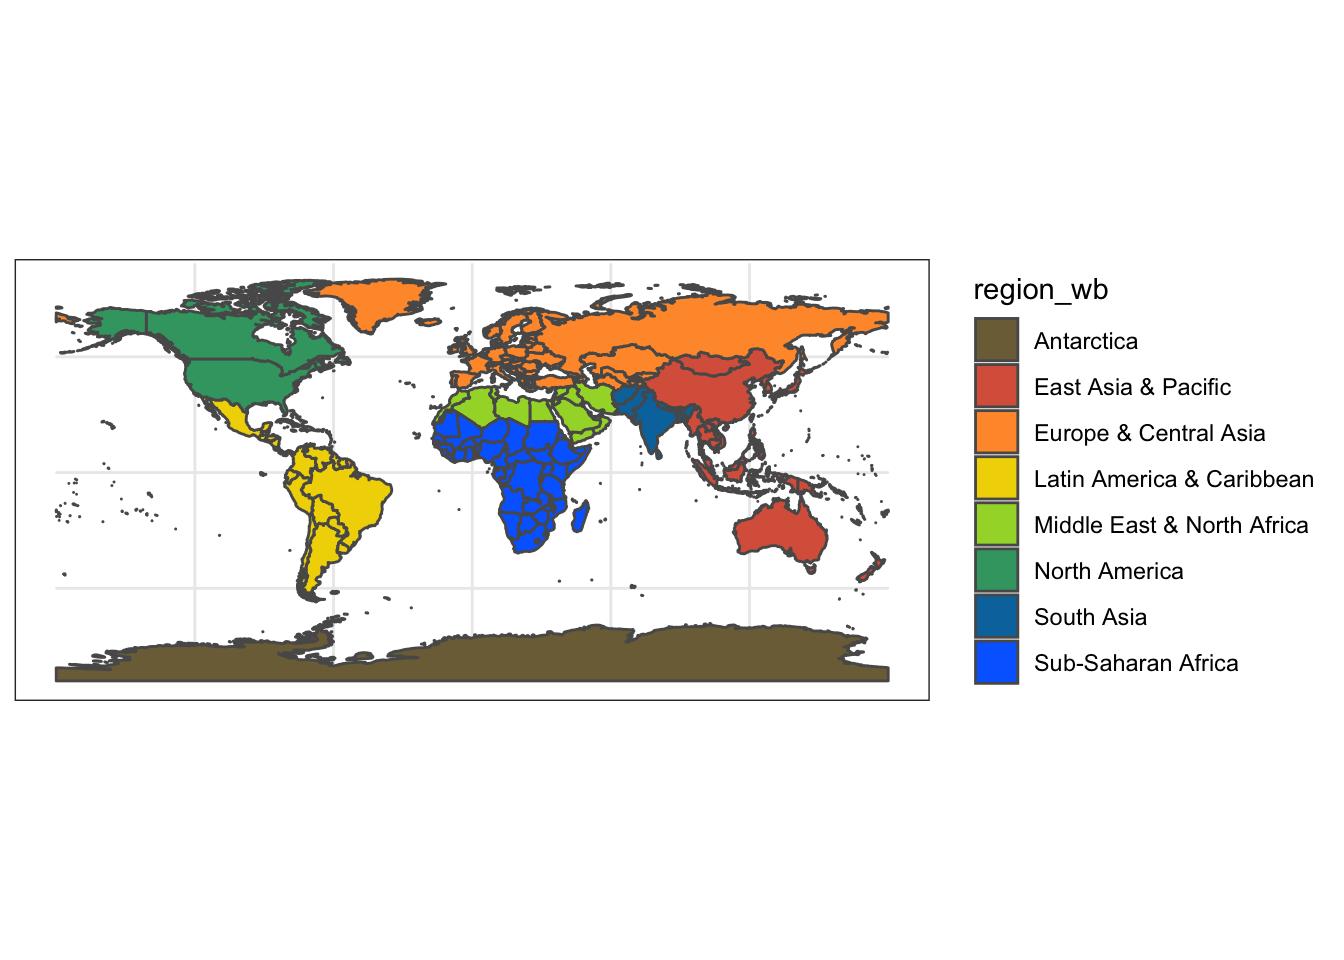
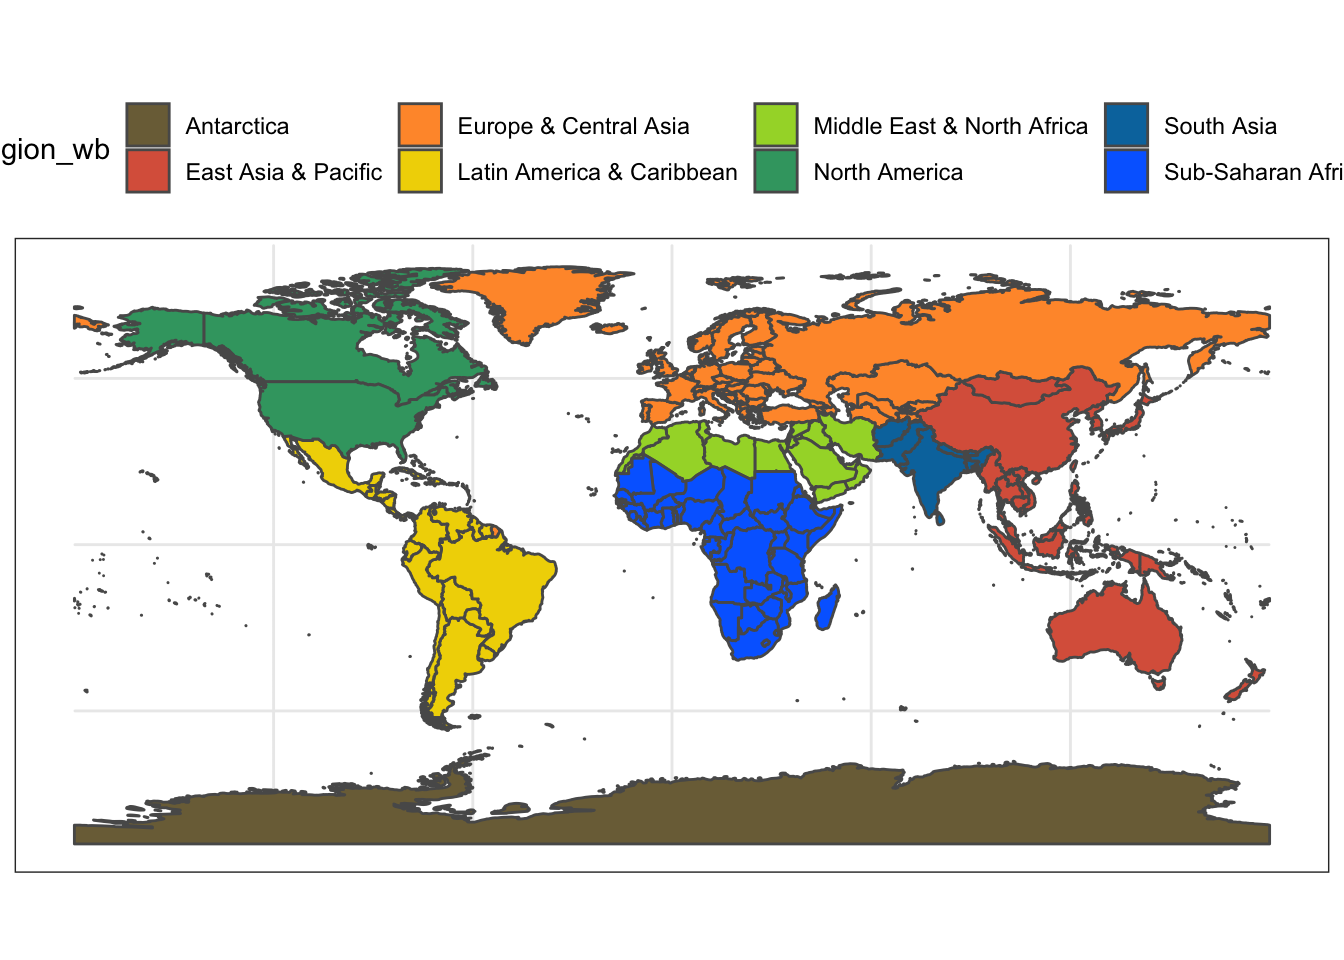
Changed legend position in maps

diff --git a/README.md b/README.md
@@ -140,7 +140,8 @@ world <- ne_countries(scale = "medium", returnclass = "sf")
 ggplot(data = world) +
   geom_sf(aes(fill = pop_est)) +
   scale_fill_fish(option = "Ostracion_whitleyi", direction = -1) +
-  theme_bw()
+  theme_bw() +
+  theme(legend.position = "top")
 ```
 
 <img src="README_files/figure-markdown_github/ggplot2-1.png" width="672" />
@@ -150,7 +151,8 @@ ggplot(data = world) +
 ggplot(data = world) +
   geom_sf(aes(fill = gdp_md_est)) +
   scale_fill_fish(option = "Zebrasoma_velifer", trans = "sqrt") +
-  theme_bw()
+  theme_bw()+
+  theme(legend.position = "top")
 ```
 
 <img src="README_files/figure-markdown_github/ggplot2-2.png" width="672" />
@@ -160,7 +162,8 @@ ggplot(data = world) +
 ggplot(data = world) +
   geom_sf(aes(fill = gdp_md_est)) +
   scale_fill_fish(option = "Zebrasoma_velifer", trans = "sqrt", begin = 0.3, end = 1) +
-  theme_bw()
+  theme_bw()+
+  theme(legend.position = "top")
 ```
 
 <img src="README_files/figure-markdown_github/ggplot2-3.png" width="672" />
@@ -170,7 +173,8 @@ ggplot(data = world) +
 ggplot(data = world) +
   geom_sf(aes(fill = region_wb)) +
   scale_fill_fish(option = "Coris_gaimard", discrete = TRUE) +
-  theme_bw()
+  theme_bw()+
+  theme(legend.position = "top")
 ```
 
 <img src="README_files/figure-markdown_github/ggplot2-4.png" width="672" />
@@ -180,7 +184,8 @@ ggplot(data = world) +
 ggplot(data = world) +
   geom_sf(aes(fill = region_wb)) +
   scale_fill_fish(option = "Coris_gaimard", discrete = TRUE, direction = -1) +
-  theme_bw()
+  theme_bw()+
+  theme(legend.position = "top")
 ```
 
 <img src="README_files/figure-markdown_github/ggplot2-5.png" width="672" />
@@ -190,7 +195,8 @@ ggplot(data = world) +
 ggplot(data = world) +
   geom_sf(aes(fill = income_grp)) +
   scale_fill_fish(option = "Synchiropus_splendidus", discrete = T, alpha = 0.8) +
-  theme_bw()
+  theme_bw()+
+  theme(legend.position = "top")
 ```
 
 <img src="README_files/figure-markdown_github/ggplot2-6.png" width="672" />
@@ -198,7 +204,8 @@ ggplot(data = world) +
 Contribute
 ----------
 
-Check out how you can contribute to this package
+Love it? Missing your favorite species? Check out how you can contribute
+to this package
 [here](https://nschiett.github.io/fishualize/articles/contribute.html)
 
 Credits
